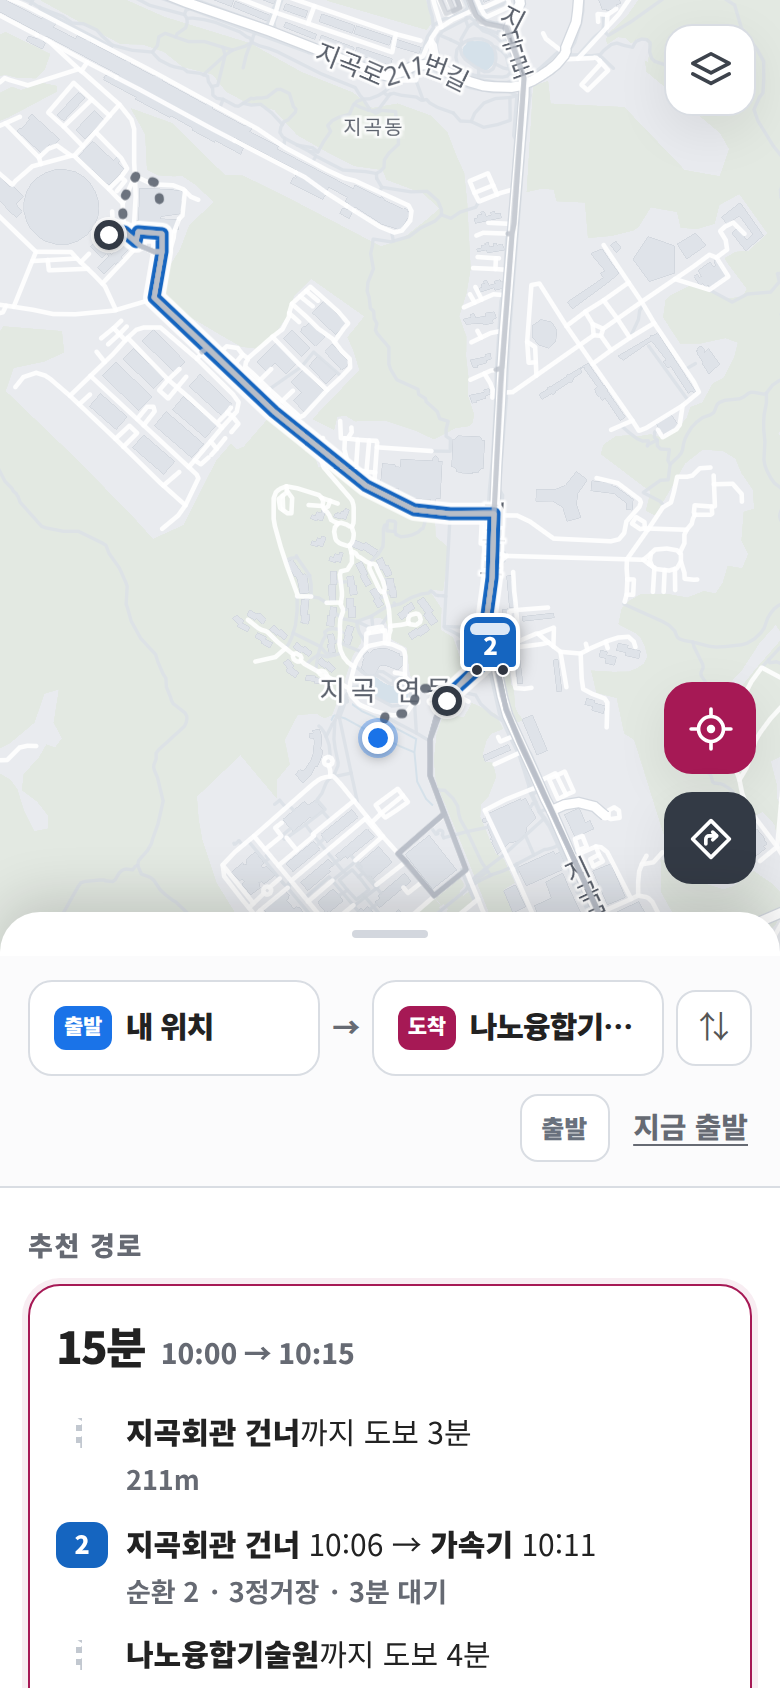
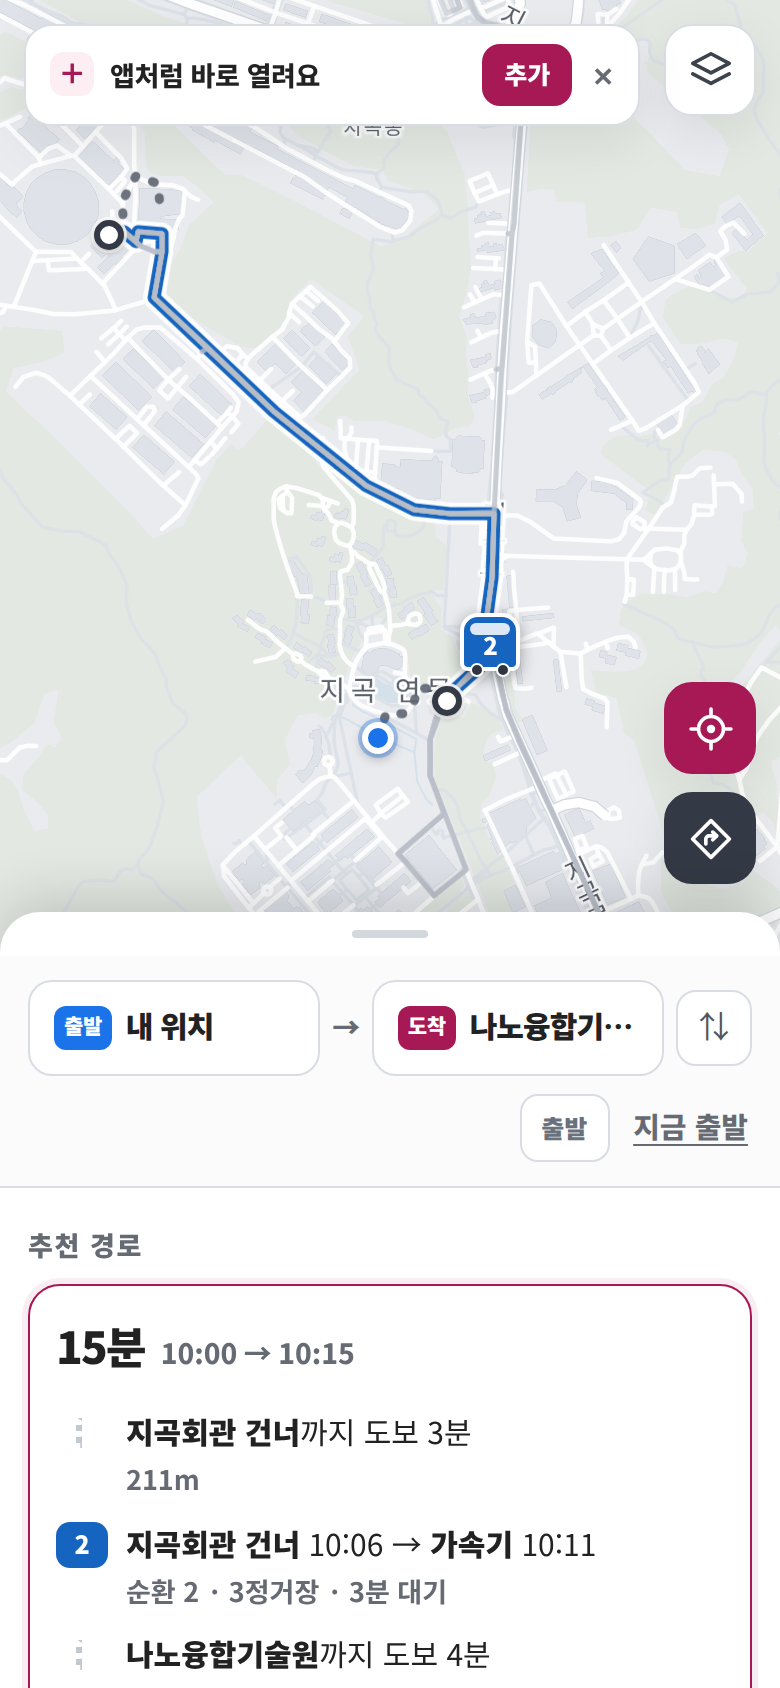
설치 권유를 지도 위쪽으로
목록 안에 두었더니 시트가 접힌 기본 상태에서 화면 맨 아래(y=841, 화면 높이
844)에 놓여 사실상 보이지 않았다. 시트를 끌어올려야만 나왔다.

지도 위쪽에 띄운다. 오른쪽 위 레이어 버튼 자리를 비워 두고 그 옆에 앉힌다.
문구는 좁은 자리에 맞게 줄였다. 한 번 물러나면 다시 나오지 않고, 설치가
끝나면 스스로 사라진다. 목록 맨 아래 링크는 그대로 남는다.

Claude-Session: https://claude.ai/code/session_01R7J8xzKq3og93Ay3cGsHuE

Changed region(s): [[0.0308, 0.0, 0.8308, 0.0924]]

diff --git a/map.js b/map.js
@@ -596,7 +596,11 @@ const showNudge = () => canInstall() && !nudgeOff;
 function dismissNudge() {
   nudgeOff = true;
   try { localStorage.setItem(LS_NUDGE, 'off'); } catch (e) {}
-  render();
+  paintInstallBar();
+}
+function paintInstallBar() {
+  const bar = $('installBar');
+  if (bar) bar.hidden = !showNudge();
 }
 
 let installPrompt = null;
@@ -614,7 +618,7 @@ const isChromium = () => /Chrome|Chromium|Edg\//.test(ua()) && !/Firefox/.test(u
 const canInstall = () =>
   !isStandalone() && (!!installPrompt || isIOS() || isAndroid() || isChromium());
 
-addEventListener('beforeinstallprompt', e => { e.preventDefault(); installPrompt = e; render(); });
+addEventListener('beforeinstallprompt', e => { e.preventDefault(); installPrompt = e; paintInstallBar(); });
 addEventListener('appinstalled', () => { installPrompt = null; dismissNudge(); });
 
 /* 브라우저마다 경로가 다르다 */
@@ -629,7 +633,7 @@ async function install() {
     installPrompt.prompt();
     await installPrompt.userChoice;
     installPrompt = null;
-    render();
+    paintInstallBar();
     return;
   }
   // 프롬프트를 주지 않는 브라우저 — 경로를 알려 준다
@@ -728,6 +732,12 @@ function askLocation() {
   $('askYes').onclick = () => { closeAsk(); startLocate(); };
   $('askNo').textContent = T.askNo;
   $('askNo').onclick = closeAsk;
+$('installYes').onclick = install;
+$('installNo').onclick = dismissNudge;
+for (const id of ['ask', 'pickHint', 'updateHint', 'editbar', 'installBar']) {
+  const el = $(id);
+  if (el) { L.DomEvent.disableClickPropagation(el); L.DomEvent.disableScrollPropagation(el); }
+}
 if ($('lnkTimetable')) $('lnkTimetable').onclick = showTimetable;
   openAsk(el);
 }
@@ -1098,15 +1108,6 @@ function render() {
       .sort((a, b) => a.min - b.min)[0] || null;
   };
 
-  if (showNudge()) {
-    html += `<div class="nudge">
-      <span class="nudge-icon" aria-hidden="true">＋</span>
-      <span class="nudge-text">${T.installNudge}</span>
-      <button type="button" class="nudge-yes" id="nudgeYes">${T.installNow}</button>
-      <button type="button" class="nudge-x" id="nudgeNo" aria-label="${T.close}">✕</button>
-    </div>`;
-  }
-
   const bus = selectedBus ? live.find(b => b.key === selectedBus) : null;
   if (selectedBus && !bus) selectedBus = null;      // 운행이 끝나면 놓아 준다
   drawBusPath(bus);
@@ -1194,8 +1195,7 @@ function render() {
   if (tt) tt.onclick = showTimetable;
   const ins = $('lnkInstall');
   if (ins) ins.onclick = install;
-  if ($('nudgeYes')) $('nudgeYes').onclick = install;
-  if ($('nudgeNo')) $('nudgeNo').onclick = dismissNudge;
+
   const bx = $('busClose');
   if (bx) bx.onclick = e => { e.stopPropagation(); selectedBus = null; render(); };
   $('panelScroll').querySelectorAll('.period button').forEach(el => el.onclick = () => {
@@ -1232,6 +1232,12 @@ if (new URLSearchParams(location.search).has('edit')) $('btnEdit').hidden = fals
 $('btnEdit').onclick = toggleEdit;
 $('btnBase').onclick = () => setBasemap(baseIdx + 1);
 $('askNo').onclick = closeAsk;
+$('installYes').onclick = install;
+$('installNo').onclick = dismissNudge;
+for (const id of ['ask', 'pickHint', 'updateHint', 'editbar', 'installBar']) {
+  const el = $(id);
+  if (el) { L.DomEvent.disableClickPropagation(el); L.DomEvent.disableScrollPropagation(el); }
+}
 if ($('lnkTimetable')) $('lnkTimetable').onclick = showTimetable;
 
 /* Esc 로 지금 열려 있는 것을 닫는다 */
@@ -1796,6 +1802,9 @@ function applyLang() {
   $('btnMode').ariaLabel = T.modeSwitch;
   sheet.relabel();
   set('pickHintText', T.pickHint);
+  set('installText', T.installNudge);
+  set('installYes', T.installNow);
+  paintInstallBar();
   set('updateText', T.updateReady);
   set('updateNow', T.reload);
   set('pickCancel', T.cancel);

diff --git a/index.html b/index.html
@@ -366,22 +366,31 @@ button{cursor:pointer}
 .tt tr.next td{background:var(--postech-red-050);color:var(--postech-red-700);font-weight:900}
 .panel-links button{cursor:pointer}
 
-/* 설치 유도 한 줄. 한 번 물러나면 다시 나오지 않는다. */
-.nudge{
-  display:flex;align-items:center;gap:9px;margin:14px 0 2px;
-  padding:10px 12px;border:1px solid var(--line);border-radius:14px;background:#fff;
+/* 설치 권유. 목록 안에 두었더니 시트가 접힌 기본 상태에서 화면 밖이라
+   보이지 않았다. 지도 위쪽에 띄우고, 한 번 물러나면 다시 나오지 않는다. */
+.install-bar{
+  position:fixed;z-index:860;display:flex;align-items:center;gap:8px;
+  left:max(12px, env(safe-area-inset-left));
+  right:calc(max(12px, env(safe-area-inset-right)) + 58px);
+  top:calc(var(--header-h) + 12px + env(safe-area-inset-top));
+  padding:9px 10px 9px 12px;border-radius:14px;
+  background:#fff;border:1px solid var(--line);box-shadow:var(--shadow);
   font-size:13.5px;font-weight:800;color:var(--ink);
 }
-.nudge-icon{
-  flex:0 0 auto;width:24px;height:24px;border-radius:8px;display:grid;place-items:center;
-  background:var(--postech-red-050);color:var(--postech-red);font-size:15px;font-weight:900;
+.install-bar[hidden]{display:none}
+.install-icon{
+  flex:0 0 auto;width:22px;height:22px;border-radius:7px;display:grid;place-items:center;
+  background:var(--postech-red-050);color:var(--postech-red);font-size:14px;font-weight:900;
 }
-.nudge-text{min-width:0;overflow:hidden;text-overflow:ellipsis;white-space:nowrap}
-.nudge-yes{
-  margin-left:auto;flex:0 0 auto;border:0;border-radius:9px;padding:7px 12px;
-  background:var(--postech-red);color:#fff;font-size:13px;font-weight:900;
+.install-text{min-width:0;overflow:hidden;text-overflow:ellipsis;white-space:nowrap}
+.install-yes{
+  margin-left:auto;flex:0 0 auto;border:0;border-radius:9px;padding:6px 11px;
+  background:var(--postech-red);color:#fff;font-size:12.5px;font-weight:900;
 }
-.nudge-x{flex:0 0 auto;border:0;background:none;color:var(--muted);font-size:14px;padding:5px 3px}
+.install-x{flex:0 0 auto;border:0;background:none;color:var(--muted);font-size:13px;padding:5px 2px}
+@media (min-width:821px){
+  .install-bar{left:calc(var(--panel-w) + 12px);top:calc(var(--header-h) + 12px)}
+}
 
 /* ---------- notice ---------- */
 .notice{
@@ -681,6 +690,12 @@ body.sheet-full .mapbtns{opacity:0;pointer-events:none;transition:opacity .15s}
         <button class="ask-yes" id="askYes">위치 허용</button>
       </div>
     </div>
+  </div>
+  <div class="install-bar" id="installBar" hidden>
+    <span class="install-icon" aria-hidden="true">＋</span>
+    <span class="install-text" id="installText">홈 화면에 추가</span>
+    <button type="button" class="install-yes" id="installYes">추가</button>
+    <button type="button" class="install-x" id="installNo" aria-label="닫기">✕</button>
   </div>
   <div class="map-top">    <button class="mapbtn" id="btnBase" aria-label="지도 종류"><svg viewBox="0 0 24 24" aria-hidden="true"><path d="M12 3 2.5 8 12 13l9.5-5L12 3Z"/><path d="M2.5 13.5 12 18.5l9.5-5"/></svg></button>
   </div>

diff --git a/i18n.js b/i18n.js
@@ -58,7 +58,7 @@ const STRINGS = {
     updateReady: '새 버전이 있습니다', reload: '새로고침',
     skip: '본문으로 건너뛰기', back: '뒤로', gotIt: '알겠어요',
     installApp: '홈 화면에 추가',
-    installNudge: '홈 화면에 추가하면 앱처럼 바로 열려요',
+    installNudge: '앱처럼 바로 열려요',
     installNow: '추가',
     installTitle: '홈 화면에 추가',
     stepsIOS: ['주소창 옆 <b>공유</b> 버튼을 누르세요',
@@ -142,7 +142,7 @@ const STRINGS = {
     updateReady: 'A new version is available', reload: 'Reload',
     skip: 'Skip to content', back: 'Back', gotIt: 'Got it',
     installApp: 'Add to Home Screen',
-    installNudge: 'Add to your home screen to open it like an app',
+    installNudge: 'Open it like an app',
     installNow: 'Add',
     installTitle: 'Add to Home Screen',
     stepsIOS: ['Tap the <b>Share</b> button next to the address bar',

diff --git a/sw.js b/sw.js
@@ -7,7 +7,7 @@
  * 오프라인으로 동작한다. 캠퍼스 실내나 신호가 약한 곳에서 쓸모가 있다.
  * ------------------------------------------------------------------ */
 
-const VERSION = 'f7b8968a66e5';
+const VERSION = '4b76d0c94e85';
 const SHELL = `shuttle-shell-${VERSION}`;
 const TILES = 'shuttle-tiles';
 const TILE_LIMIT = 600;
